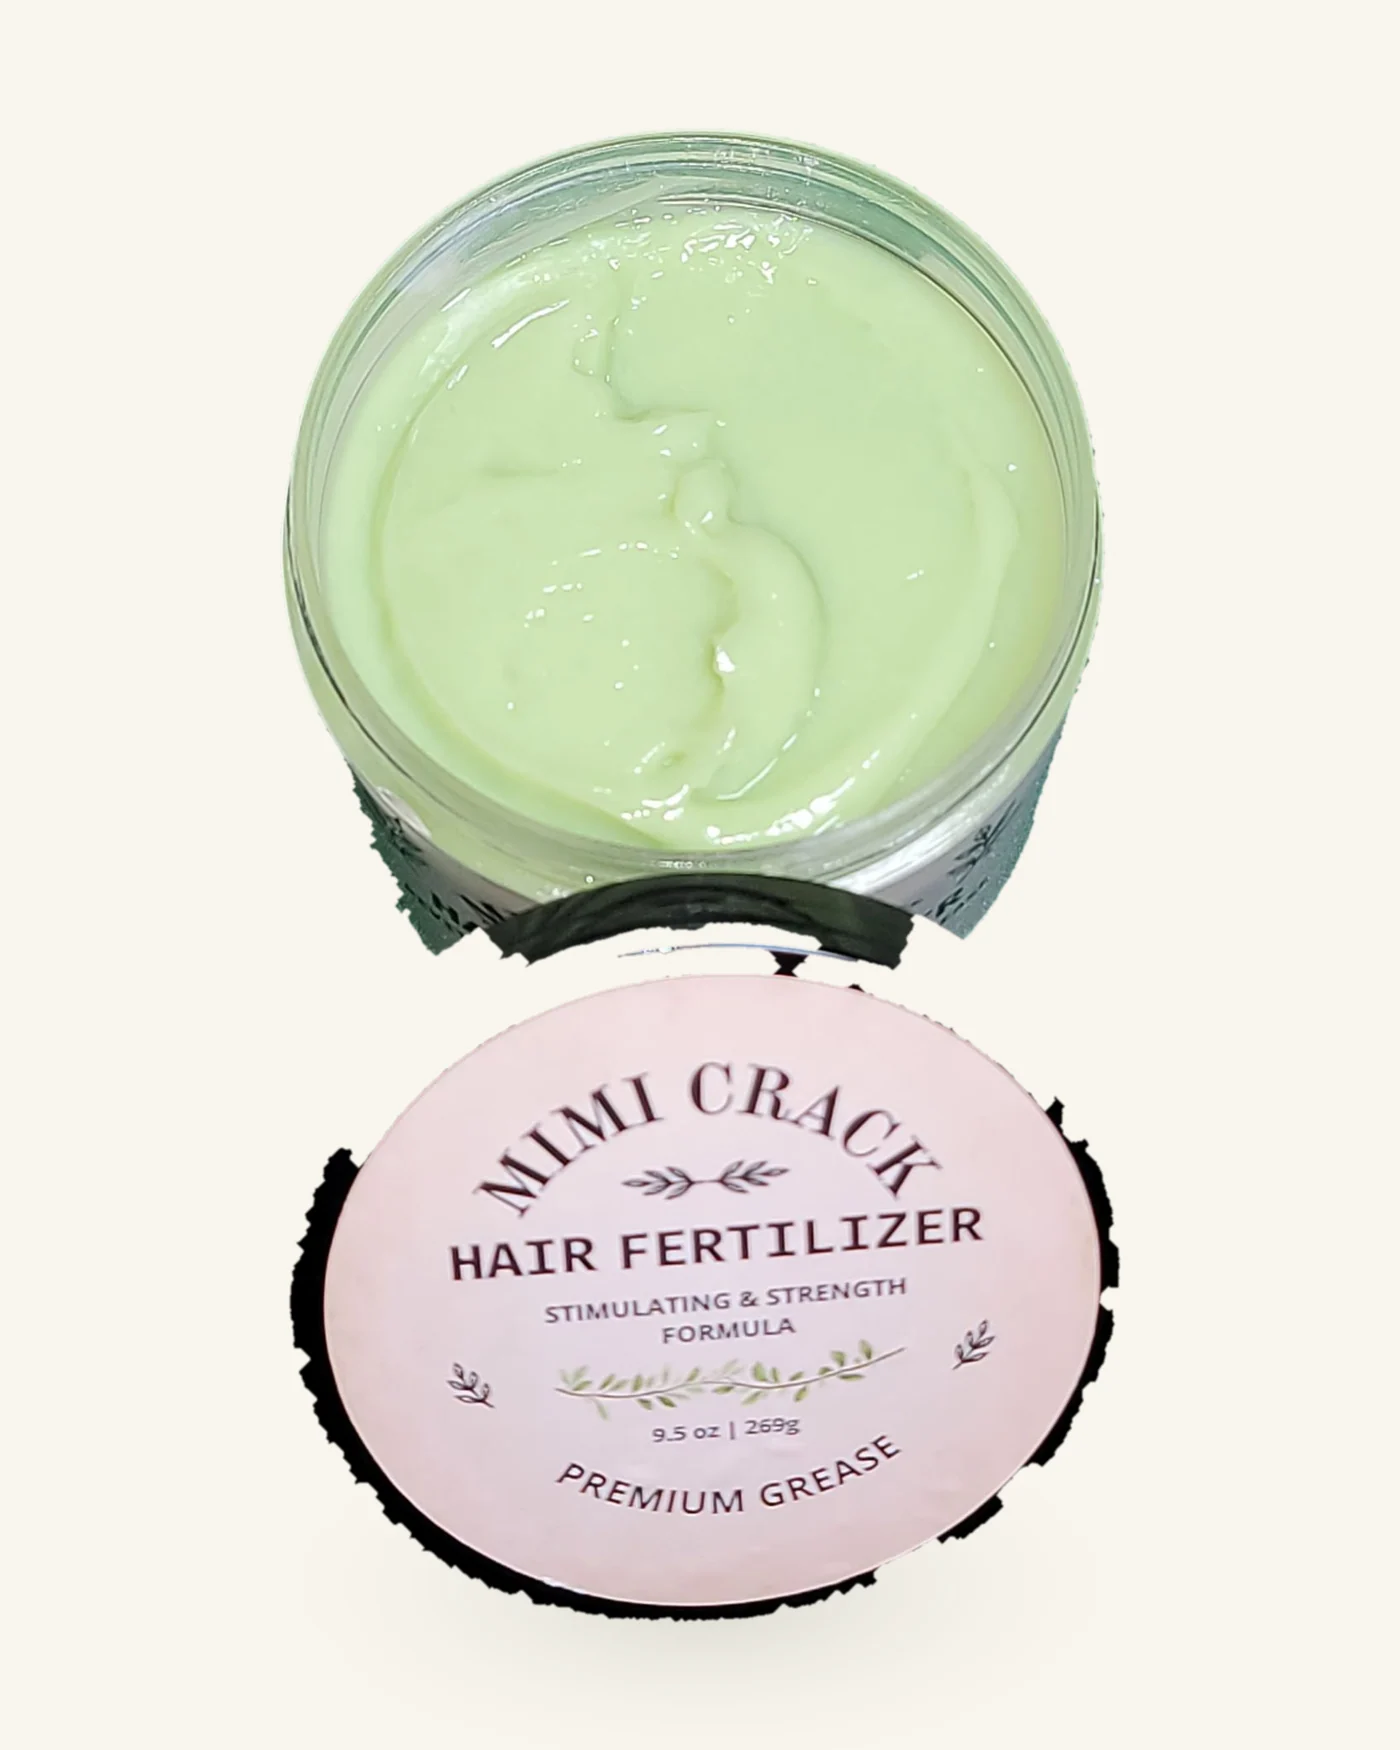
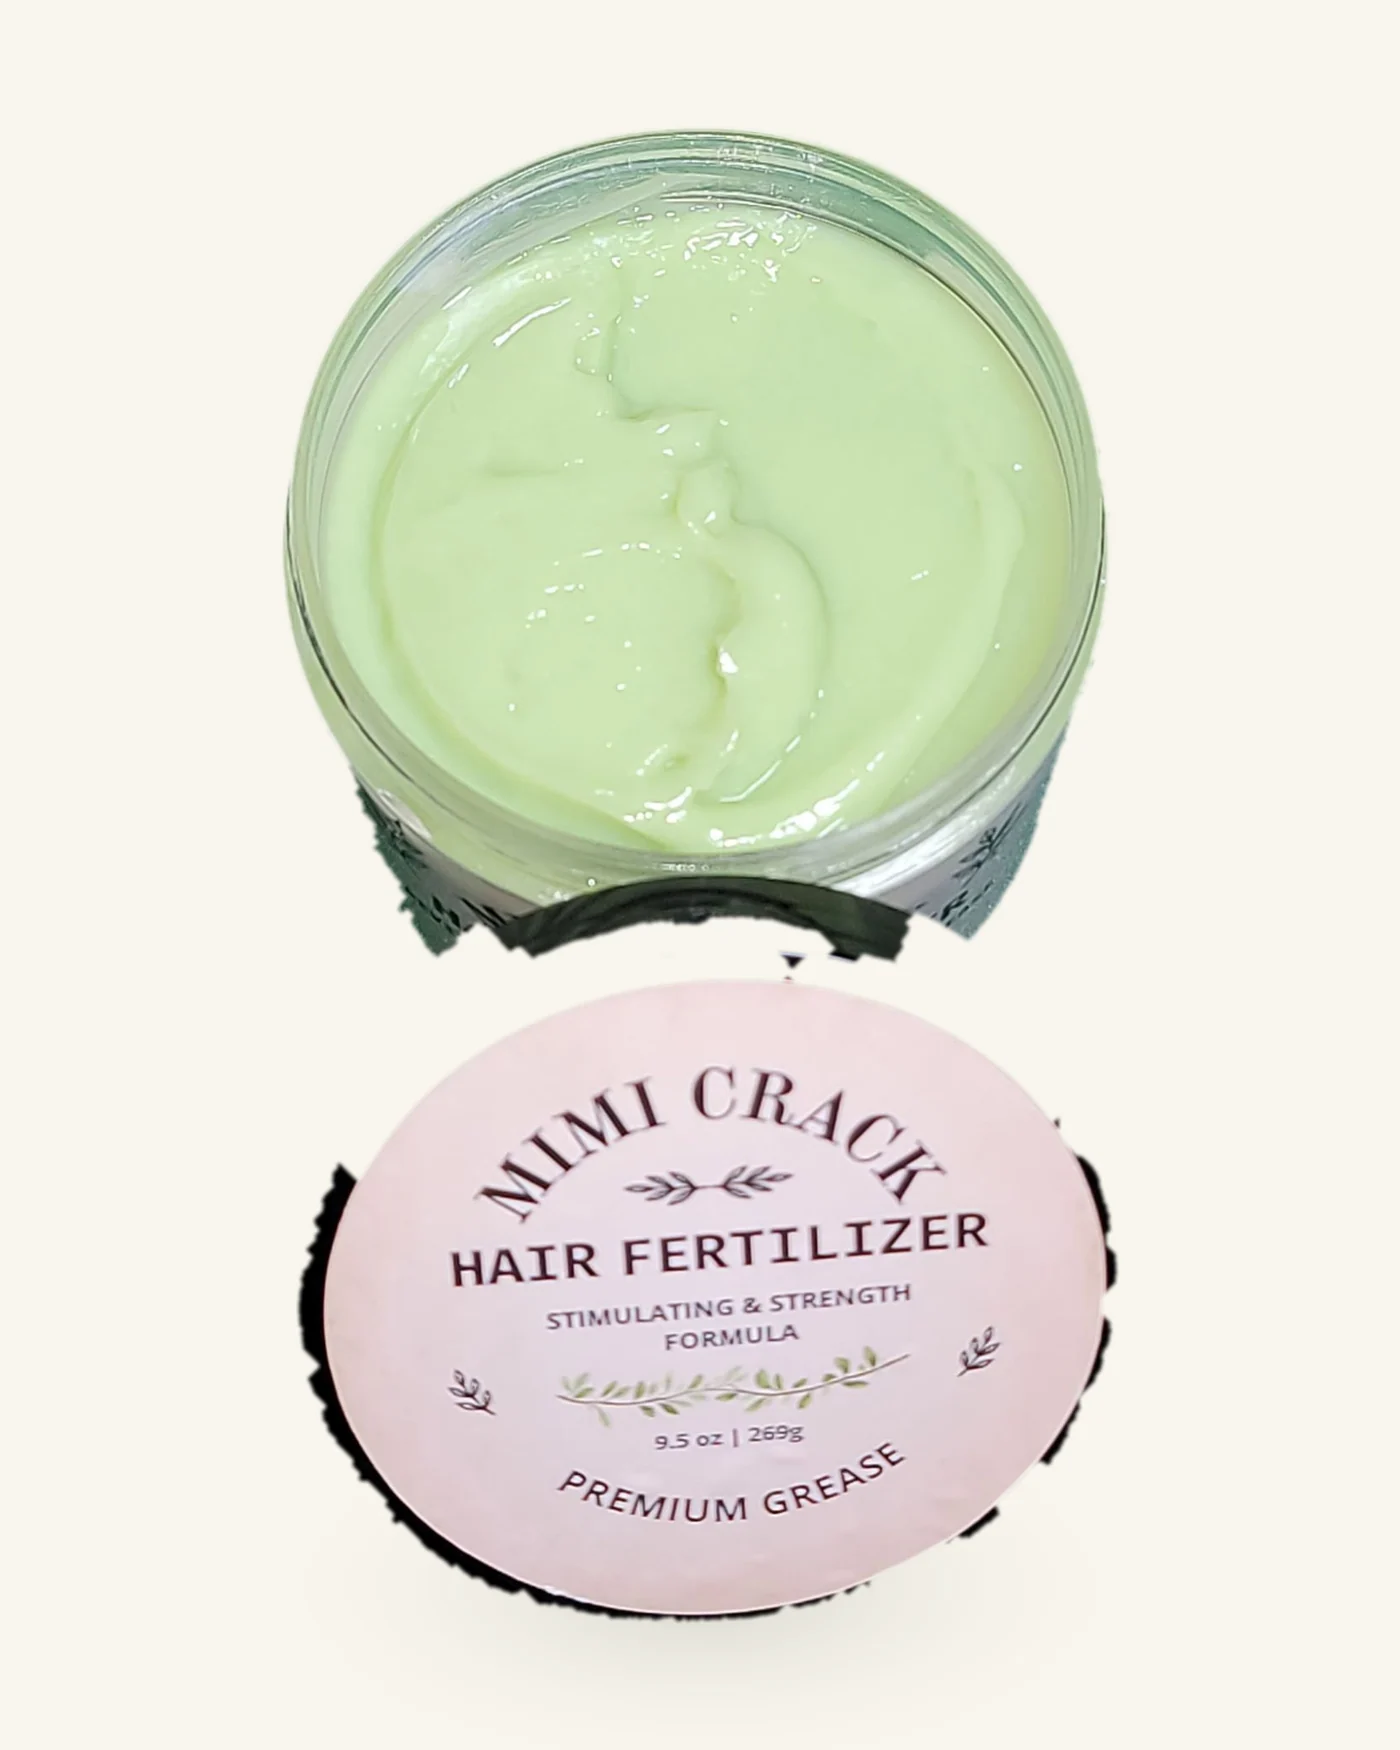
Lead with the cleaner open-jar shot
The lid in the with-lid photo is black plastic on dark felt, so its rim and
the backdrop share a shadow and the cutout edge reads as a ragged outline on
cream. Deepened the fringe peel and softened the feather, and moved the
top-down shot ahead of it on the landing page and in the gallery.

diff --git a/src/app/page.tsx b/src/app/page.tsx
@@ -105,8 +105,8 @@ export default function HomePage() {
         <div className="mx-auto grid max-w-6xl items-start gap-12 px-5 sm:px-8 lg:grid-cols-[1fr_1.1fr]">
           <div className="relative aspect-square overflow-hidden rounded-[2rem] bg-parchment ring-1 ring-ink/10">
             <Image
-              src="/product/jar-open.webp"
-              alt="An open jar of MiMi Crack showing the pale green grease, with the lid resting beside it"
+              src="/product/jar-open-top.webp"
+              alt="An open jar of MiMi Crack showing the pale green grease"
               fill
               sizes="(max-width: 1024px) 90vw, 32rem"
               className="object-contain"
@@ -174,8 +174,8 @@ export default function HomePage() {
 
           <div className="relative aspect-4/5 overflow-hidden rounded-[2rem] bg-parchment ring-1 ring-ink/10">
             <Image
-              src="/product/jar-open-top.webp"
-              alt="Looking down into an open jar of MiMi Crack grease"
+              src="/product/jar-open.webp"
+              alt="An open jar of MiMi Crack with its lid resting in front"
               fill
               sizes="(max-width: 1024px) 90vw, 28rem"
               className="object-contain"

diff --git a/src/app/product/page.tsx b/src/app/product/page.tsx
@@ -16,12 +16,12 @@ const shots: Shot[] = [
     alt: "The MiMi Crack jar upright, cream label and terracotta lid",
   },
   {
-    src: "/product/jar-open.webp",
-    alt: "The jar open with the lid resting in front, showing the pale green grease",
+    src: "/product/jar-open-top.webp",
+    alt: "Looking straight down into the open jar at the pale green grease",
   },
   {
-    src: "/product/jar-open-top.webp",
-    alt: "Looking straight down into the open jar",
+    src: "/product/jar-open.webp",
+    alt: "The jar open with the lid resting in front, showing the top label",
   },
   {
     src: "/product/jar-group.webp",
